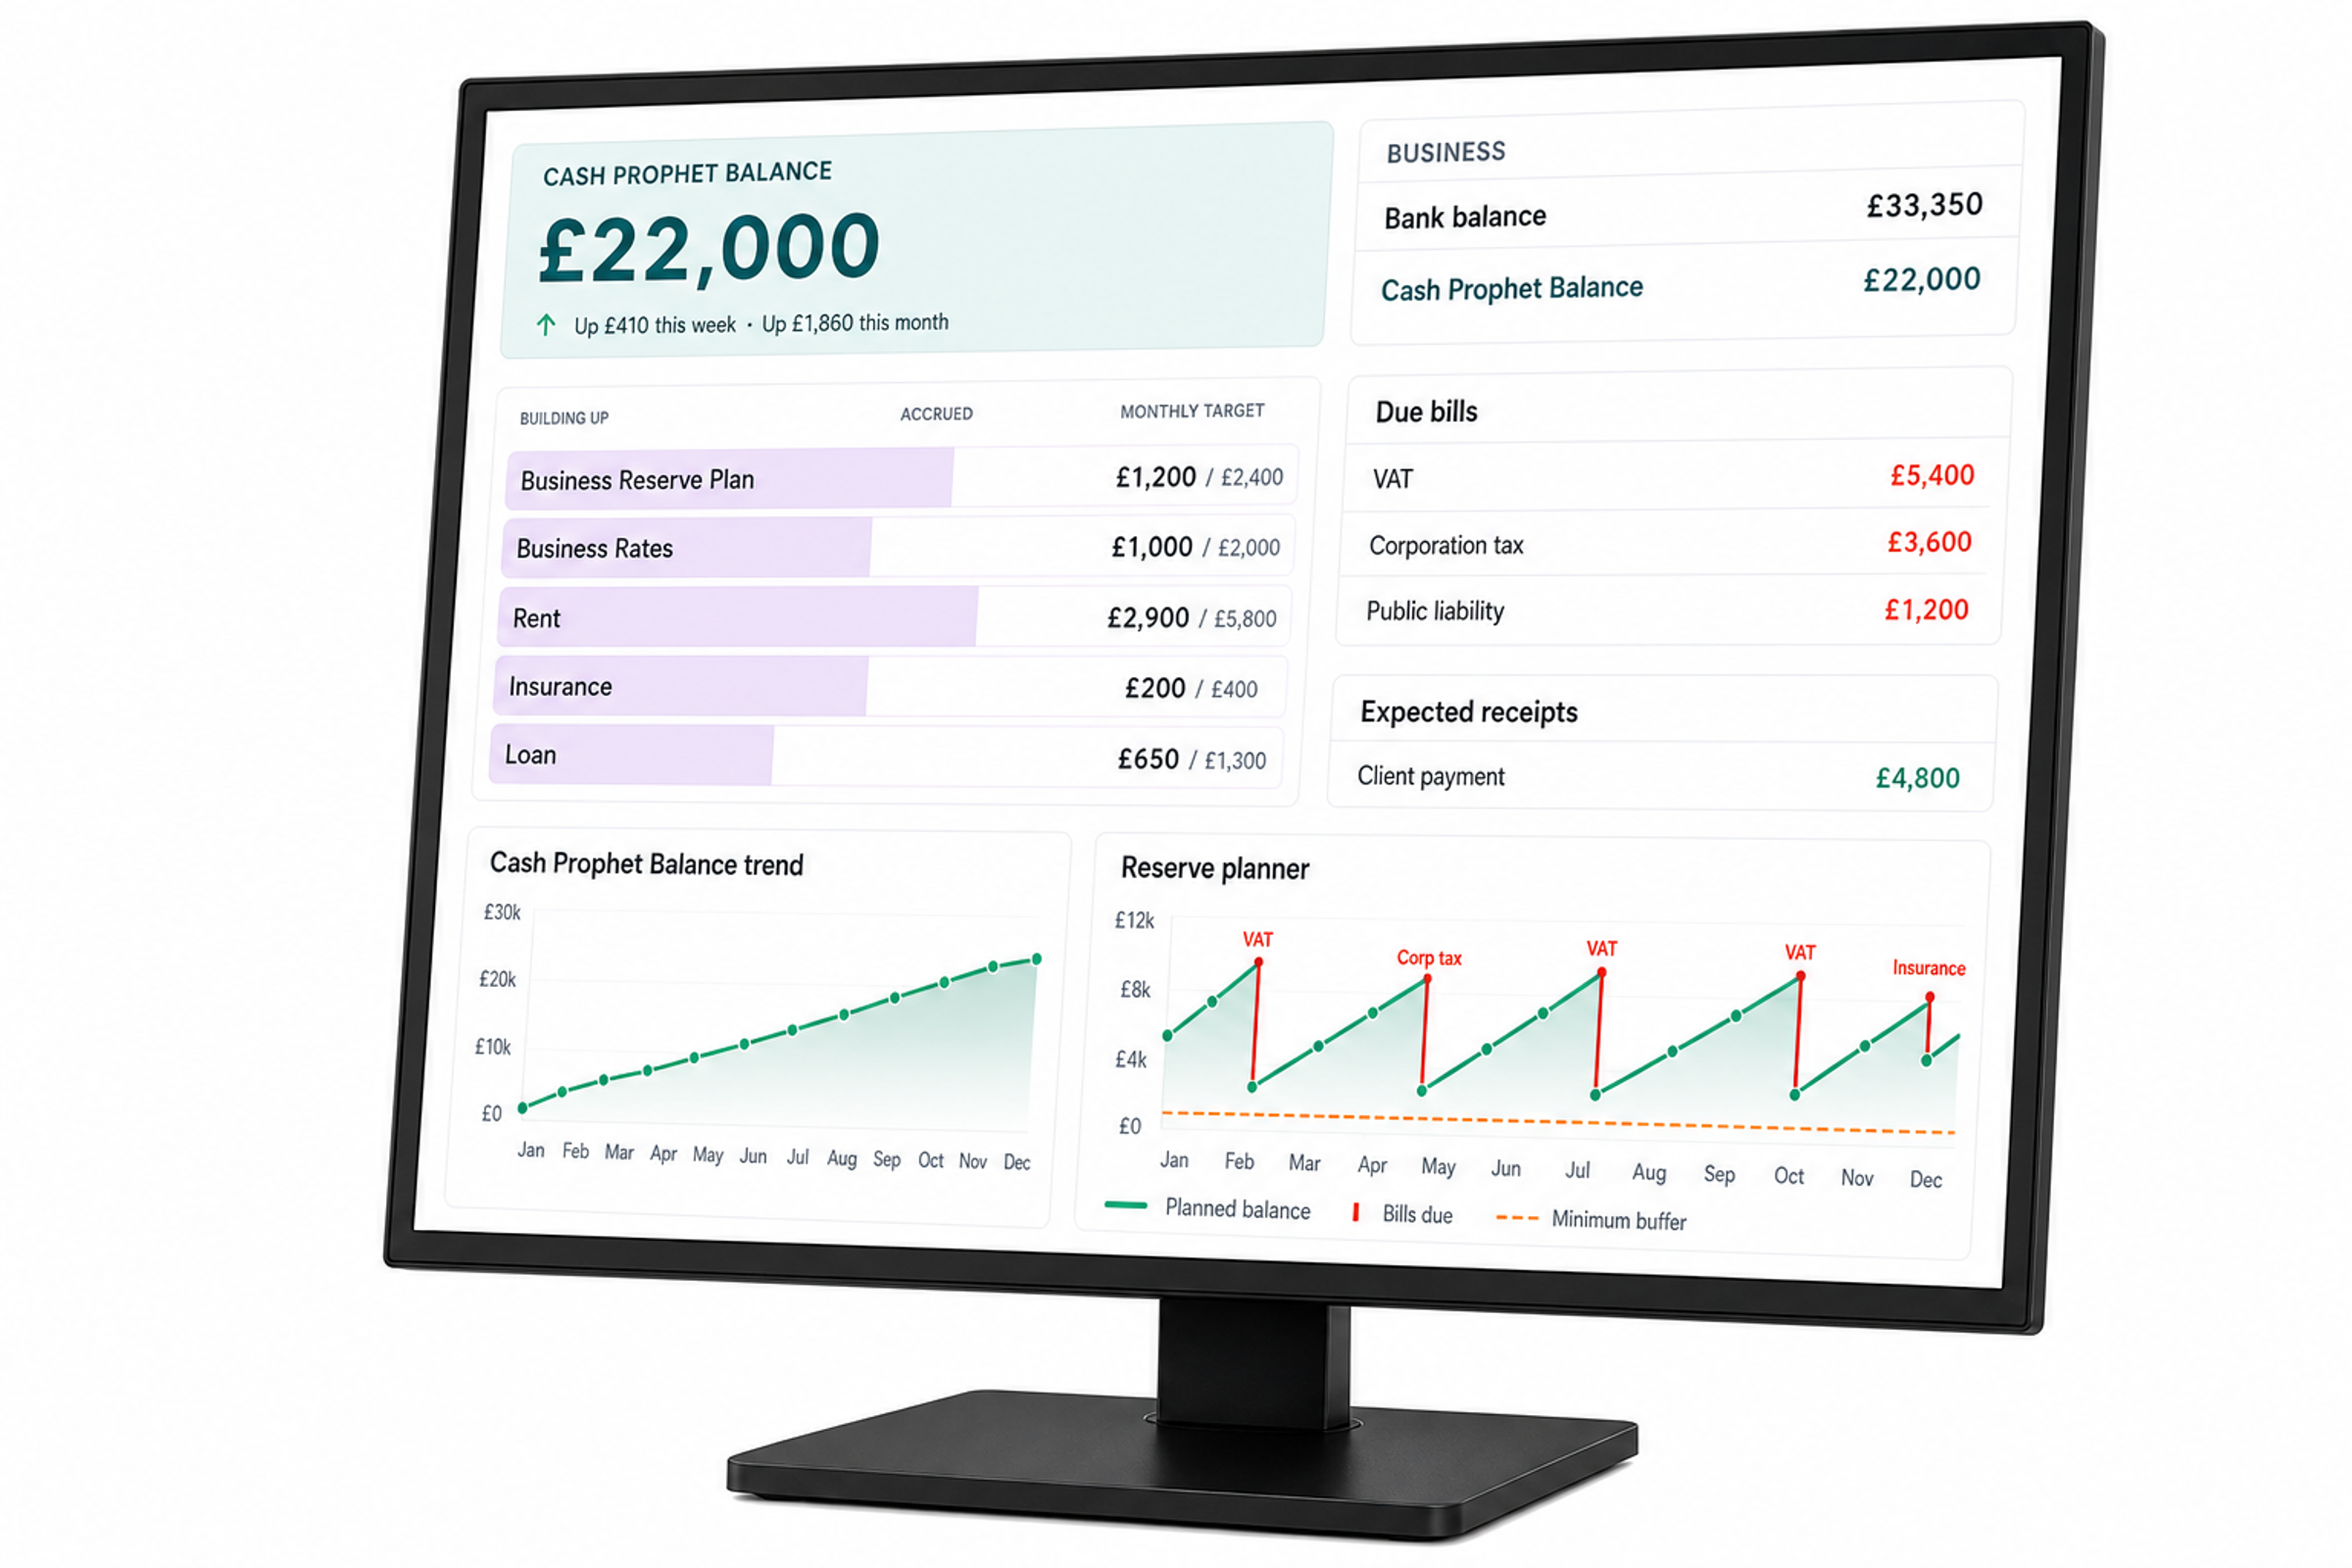
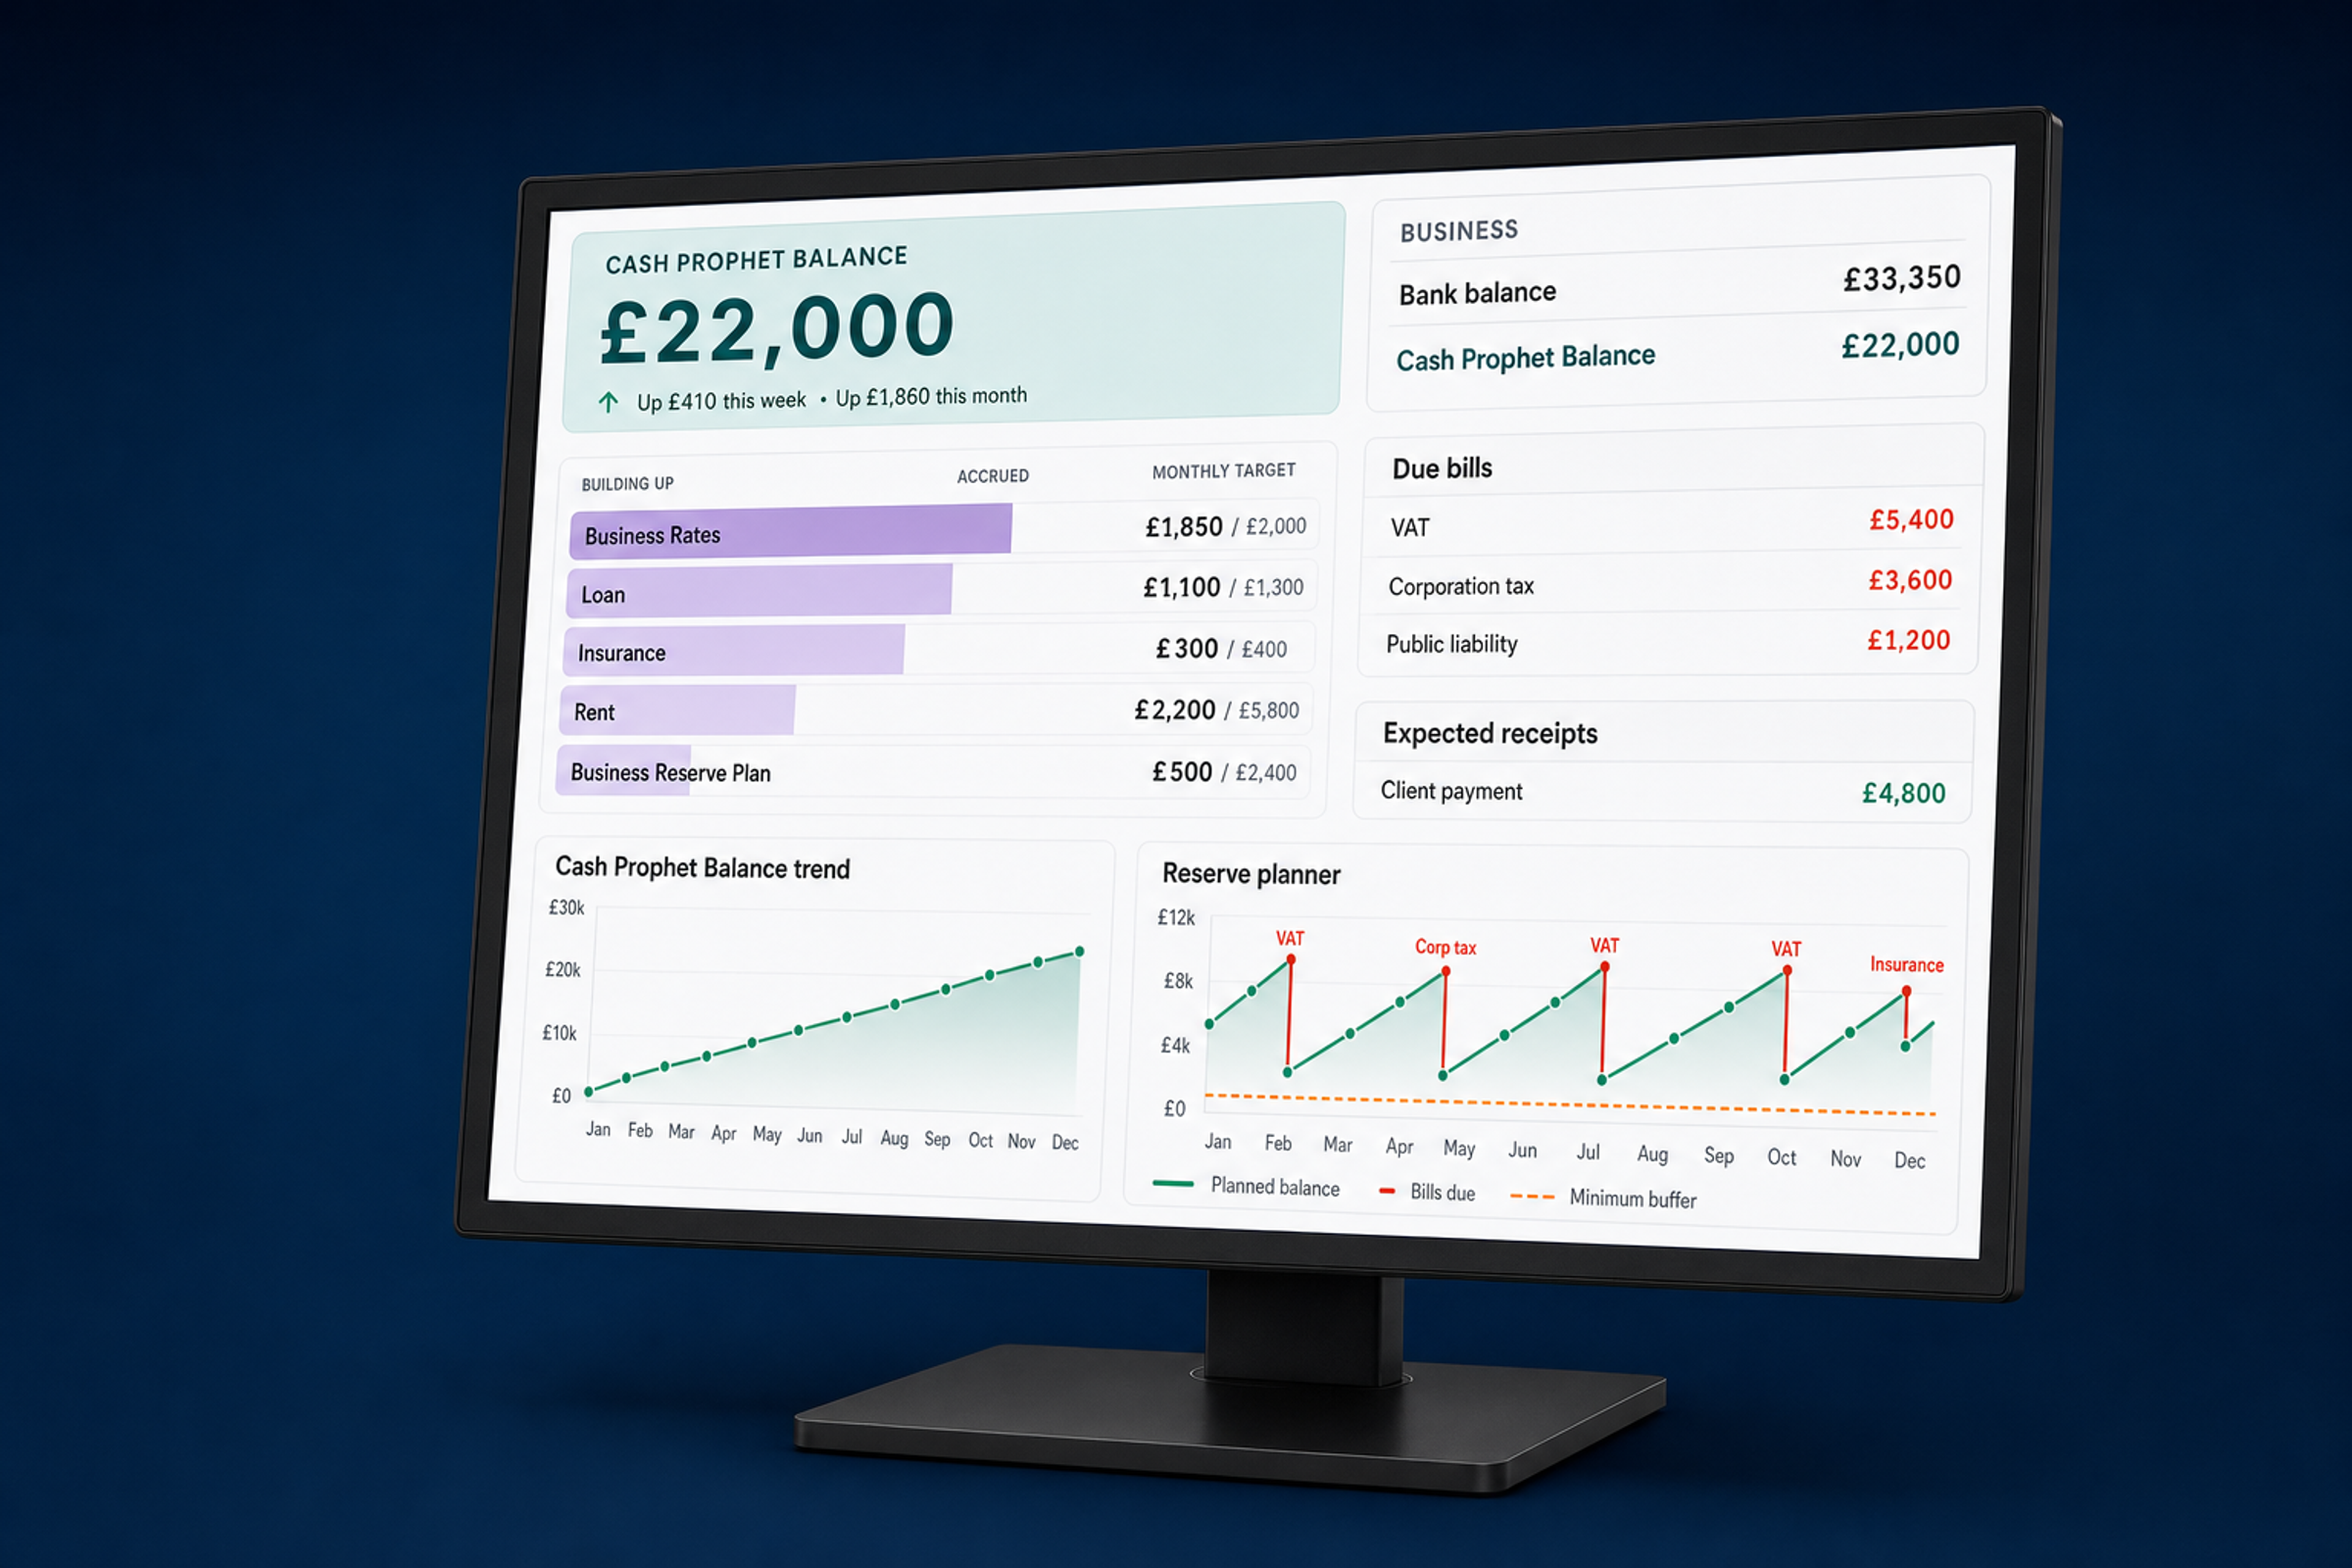
Restore homepage monitor band, drop See it image, and fix accruing bar logic.
Use varied fullest-first progress fills that match real monthly accrual, keep the navy-backed homepage shot with heading, and return See it to copy-only demos.

diff --git a/src/pages/SeeHowItWorksPage.tsx b/src/pages/SeeHowItWorksPage.tsx
@@ -5,7 +5,7 @@ import {
   MarketingShell,
 } from '../components/marketing/MarketingLayout'
 import { DEMO_SCENARIOS, DEMO_FROZEN_DATE_KEY } from '../data/demoScenarios'
-import { SEE_HOW_SEO, PRODUCT_MONITOR_IMAGE, PRODUCT_MONITOR_IMAGE_ALT, PRODUCT_MONITOR_IMAGE_WIDTH, PRODUCT_MONITOR_IMAGE_HEIGHT } from '../content/marketingSeo'
+import { SEE_HOW_SEO } from '../content/marketingSeo'
 import { usePageMeta } from '../hooks/usePageMeta'
 import { formatSnapshotDateLong } from '../utils/snapshots'
 import { MarketingJsonLd, seeHowPageJsonLd } from '../components/marketing/MarketingJsonLd'
@@ -18,32 +18,19 @@ export function SeeHowItWorksPage() {
       <MarketingHeader />
 
       <main className="marketing-main">
-        <header className="method-edu-hero method-edu-hero--see marketing-surface--hero">
-          <div className="method-edu-inner method-edu-hero-split">
-            <div className="method-edu-hero-split-copy">
-              <p className="marketing-how-eyebrow">Try a demo</p>
-              <h1>See it with a live business</h1>
-              <p className="method-edu-hero-lead">
-                Pick an example workspace and explore Cash Prophet. No signup needed. Leisure and
-                hospitality demos show the Cash Prophet Balance with consistent income. Each demo is a
-                frozen snapshot as of {formatSnapshotDateLong(DEMO_FROZEN_DATE_KEY)}, so figures stay
-                stable while you look around.
-              </p>
-              <p className="method-edu-hero-lead method-edu-hero-lead--secondary">
-                Prefer to understand the system first?{' '}
-                <CanonicalLink to="/how-it-works">See how it works</CanonicalLink>.
-              </p>
-            </div>
-            <figure className="method-edu-hero-split-visual">
-              <img
-                src={PRODUCT_MONITOR_IMAGE}
-                alt={PRODUCT_MONITOR_IMAGE_ALT}
-                width={PRODUCT_MONITOR_IMAGE_WIDTH}
-                height={PRODUCT_MONITOR_IMAGE_HEIGHT}
-                loading="eager"
-                decoding="async"
-              />
-            </figure>
+        <header className="method-edu-hero marketing-surface--hero">
+          <div className="method-edu-inner">
+            <p className="marketing-how-eyebrow">Try a demo</p>
+            <h1>See it with a live business</h1>
+            <p className="method-edu-hero-lead">
+              Pick an example workspace and explore Cash Prophet - no signup needed. Leisure and
+              hospitality demos show the Cash Prophet Balance with consistent income. Each demo is a
+              frozen snapshot as of {formatSnapshotDateLong(DEMO_FROZEN_DATE_KEY)}, so figures stay
+              stable while you look around.
+            </p>
+            <p className="method-edu-hero-lead method-edu-hero-lead--secondary">
+              Prefer to understand the system first? <CanonicalLink to="/how-it-works">See how it works</CanonicalLink>.
+            </p>
           </div>
         </header>
         <section className="demo-scenarios-section demo-scenarios-section--landing marketing-surface--mist">
@@ -71,7 +58,7 @@ export function SeeHowItWorksPage() {
 
             <div className="demo-scenarios-footer">
               <CanonicalLink to="/" className="btn-ghost">
-                ← Back to home
+                &larr; Back to home
               </CanonicalLink>
               <CanonicalLink to="/signup" className="btn-secondary btn-large">
                 Follow the Method in your business

diff --git a/src/index.css b/src/index.css
@@ -15625,61 +15625,6 @@ tr.sheet-row--received td {
   color: var(--text-secondary);
 }
 
-.method-edu-hero--see {
-  padding-bottom: 40px;
-}
-
-.method-edu-hero-split {
-  display: grid;
-  grid-template-columns: minmax(0, 1.1fr) minmax(0, 0.9fr);
-  gap: clamp(1.5rem, 4vw, 3rem);
-  align-items: center;
-}
-
-.method-edu-hero-split-copy h1 {
-  max-width: 16ch;
-}
-
-.method-edu-hero-split-copy .method-edu-hero-lead {
-  max-width: 36rem;
-}
-
-.method-edu-hero-split-visual {
-  margin: 0;
-  justify-self: end;
-  max-width: 38rem;
-  width: 100%;
-  background: transparent;
-}
-
-.method-edu-hero-split-visual img {
-  display: block;
-  width: 100%;
-  height: auto;
-  border-radius: 0;
-  background: transparent;
-}
-
-.method-edu-hero-split-caption {
-  display: none;
-}
-
-@media (max-width: 860px) {
-  .method-edu-hero-split {
-    grid-template-columns: 1fr;
-    gap: 1.5rem;
-  }
-
-  .method-edu-hero-split-visual {
-    justify-self: center;
-    max-width: 28rem;
-  }
-
-  .method-edu-hero-split-copy h1 {
-    max-width: none;
-  }
-}
-
 .method-edu-mantra {
   margin: 28px 0 0;
   max-width: 36rem;
@@ -27893,7 +27838,7 @@ body.setup-onboarding-spotlight-active [data-onboarding-focus='true'] {
 }
 
 .home-video-frame--snapshot {
-  width: min(100%, 52rem);
+  width: min(100%, 44rem);
   aspect-ratio: auto;
   background: transparent;
   border: none;
@@ -27909,8 +27854,7 @@ body.setup-onboarding-spotlight-active [data-onboarding-focus='true'] {
   display: block;
   width: 100%;
   height: auto;
-  border-radius: 0;
-  background: transparent;
+  border-radius: 12px;
 }
 
 .home-video-snapshot-actions {

diff --git a/src/components/marketing/HomeHeroVideo.tsx b/src/components/marketing/HomeHeroVideo.tsx
@@ -1,4 +1,5 @@
 import { CanonicalLink } from '../CanonicalLink'
+import { HOME_VIDEO } from '../../content/homePage'
 import {
   PRODUCT_MONITOR_IMAGE,
   PRODUCT_MONITOR_IMAGE_ALT,
@@ -9,8 +10,8 @@ import { getVideoLabel, getVideoUrl } from '../../content/videos'
 import { toVideoEmbedUrl } from '../../utils/videoEmbed'
 
 /**
- * Homepage product snapshot: monitor image + CTAs (no descriptive copy).
- * Swaps to the walkthrough video when a homepage video URL is published.
+ * Homepage product snapshot band. Shows the monitor product shot until a
+ * homepage walkthrough video URL is published.
  */
 export function HomeHeroVideo() {
   const url = getVideoUrl('homepage')
@@ -20,9 +21,13 @@ export function HomeHeroVideo() {
     <section
       className="home-band home-band--video home-band--mist"
       id="see-cash-prophet"
-      aria-label="Cash Prophet dashboard"
+      aria-labelledby="home-video-heading"
     >
       <div className="marketing-section-inner marketing-section-inner--home home-band-stack">
+        <div className="home-band-head home-band-head--center home-video-head">
+          <h2 id="home-video-heading">{HOME_VIDEO.heading}</h2>
+          <p className="home-video-lead">{HOME_VIDEO.lead}</p>
+        </div>
         <div className={`home-video-frame${url ? '' : ' home-video-frame--snapshot'}`}>
           {url ? (
             <iframe

diff --git a/src/content/marketingSeo.ts b/src/content/marketingSeo.ts
@@ -6,12 +6,12 @@ export const SITE_OG_IMAGE_ALT =
 export const SITE_OG_IMAGE_WIDTH = 1200
 export const SITE_OG_IMAGE_HEIGHT = 630
 
-/** Monitor-only product shot for homepage / See it (no share-card branding panel). */
+/** Monitor product shot for the homepage snapshot band (no share-card branding panel). */
 export const PRODUCT_MONITOR_IMAGE = '/product-monitor.webp' as const
 export const PRODUCT_MONITOR_IMAGE_ALT =
-  'Cash Prophet dashboard on a computer monitor: Cash Prophet Balance, accruing bills, due bills, receipts, balance trend and Reserve Planner' as const
-export const PRODUCT_MONITOR_IMAGE_WIDTH = 1600
-export const PRODUCT_MONITOR_IMAGE_HEIGHT = 1067
+  'Cash Prophet dashboard on a computer monitor: Cash Prophet Balance, accruing bills with progress fills, due bills, receipts, balance trend and Reserve Planner' as const
+export const PRODUCT_MONITOR_IMAGE_WIDTH = 1536
+export const PRODUCT_MONITOR_IMAGE_HEIGHT = 1024
 
 export type RouteSeo = {
   title: string
